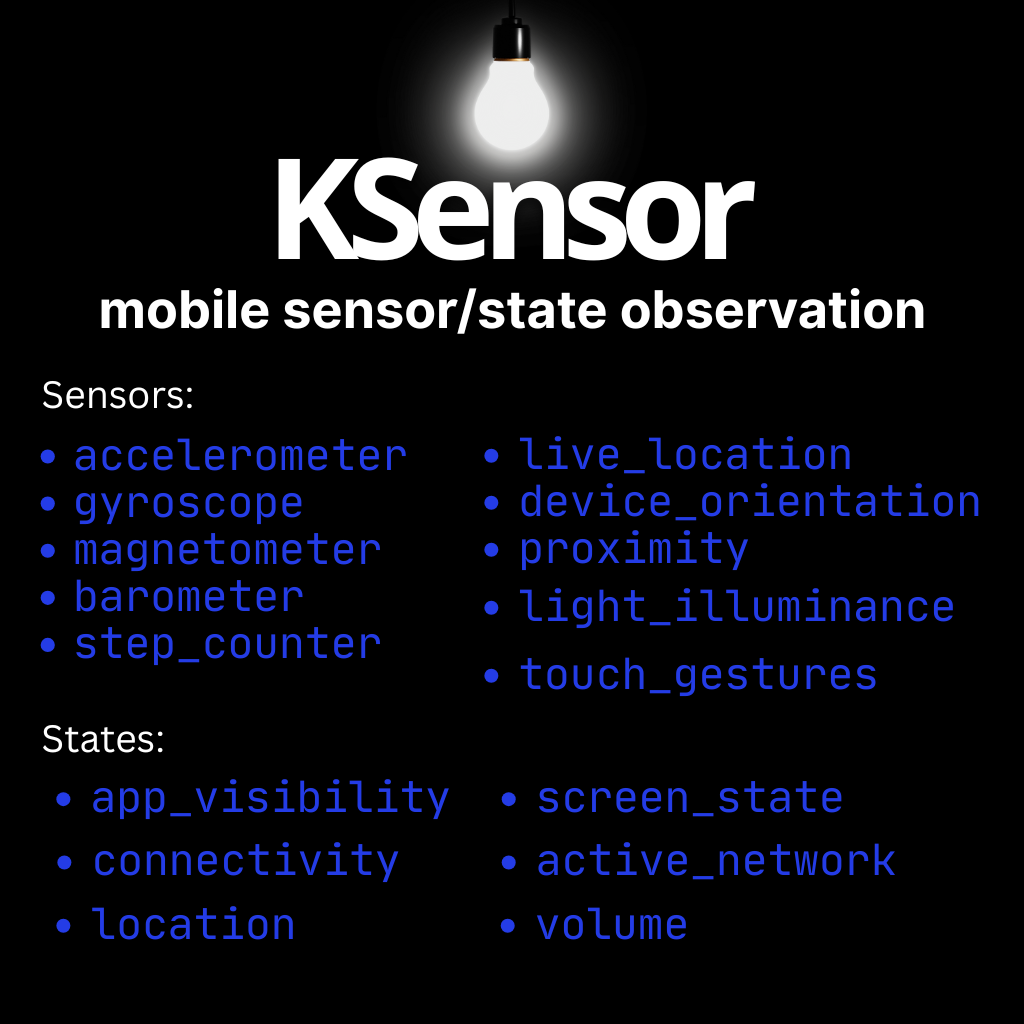
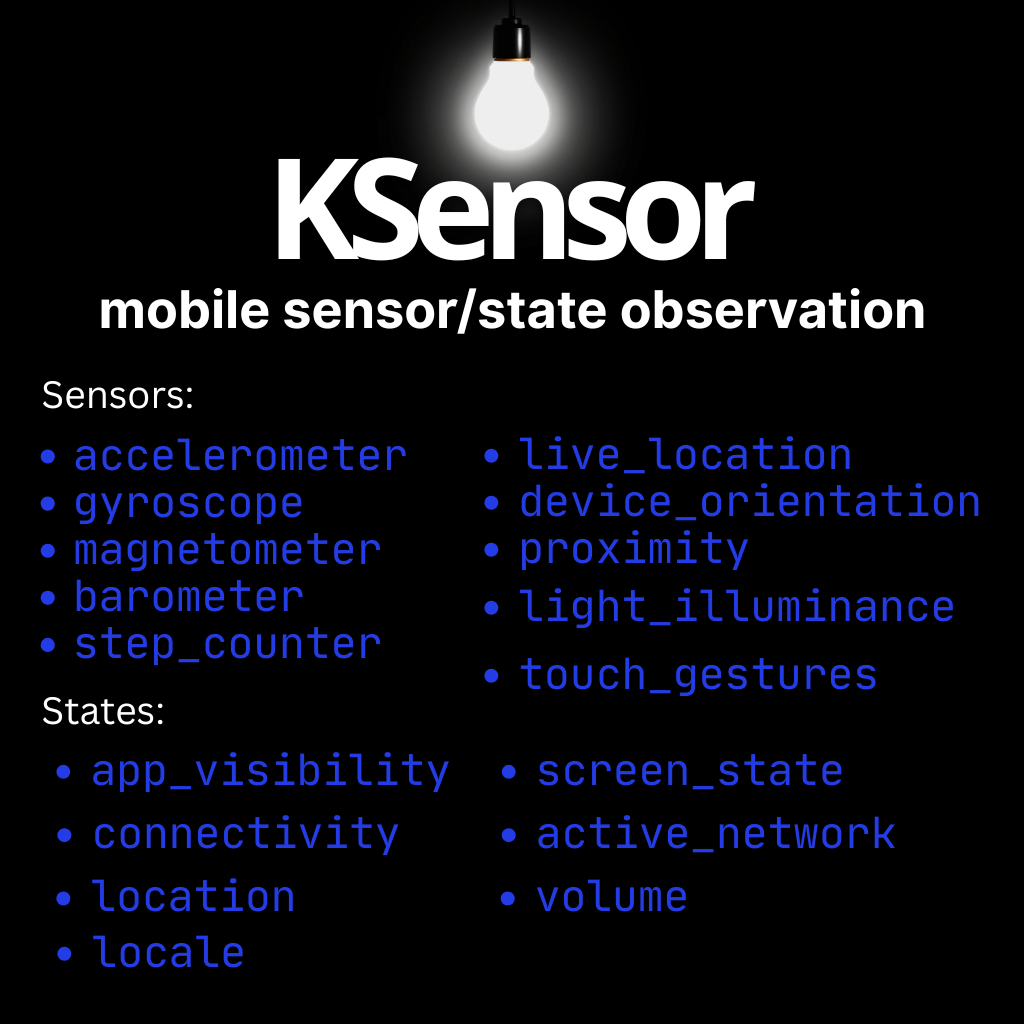
Update readme & cover

Changed region(s): [[0.0312, 0.6875, 0.4375, 0.9688], [0.4688, 0.7188, 0.875, 0.9375]]

diff --git a/README.md b/README.md
@@ -78,7 +78,8 @@ StateType.CONNECTIVITY,
 StateType.ACTIVE_NETWORK,
 StateType.LOCATION,
 StateType.SCREEN_STATE
-StateType.VOLUME)
+StateType.VOLUME,
+StateType.LOCALE)
 ```
 
 - Add observers.
@@ -108,6 +109,13 @@ ScreenStatus(val isScreenOn: Boolean)
 CurrentActiveNetwork(val activeNetwork: ActiveNetwork)
 ConnectivityStatus(val isConnected: Boolean)
 VolumeStatus(val volumePercentage: Int)
+LocaleInfo(
+val languageCode: String,
+val countryCode: String,
+val fullLocaleString: String,
+val displayName: String,
+val isRTL: Boolean
+) 
 ```
 
 
